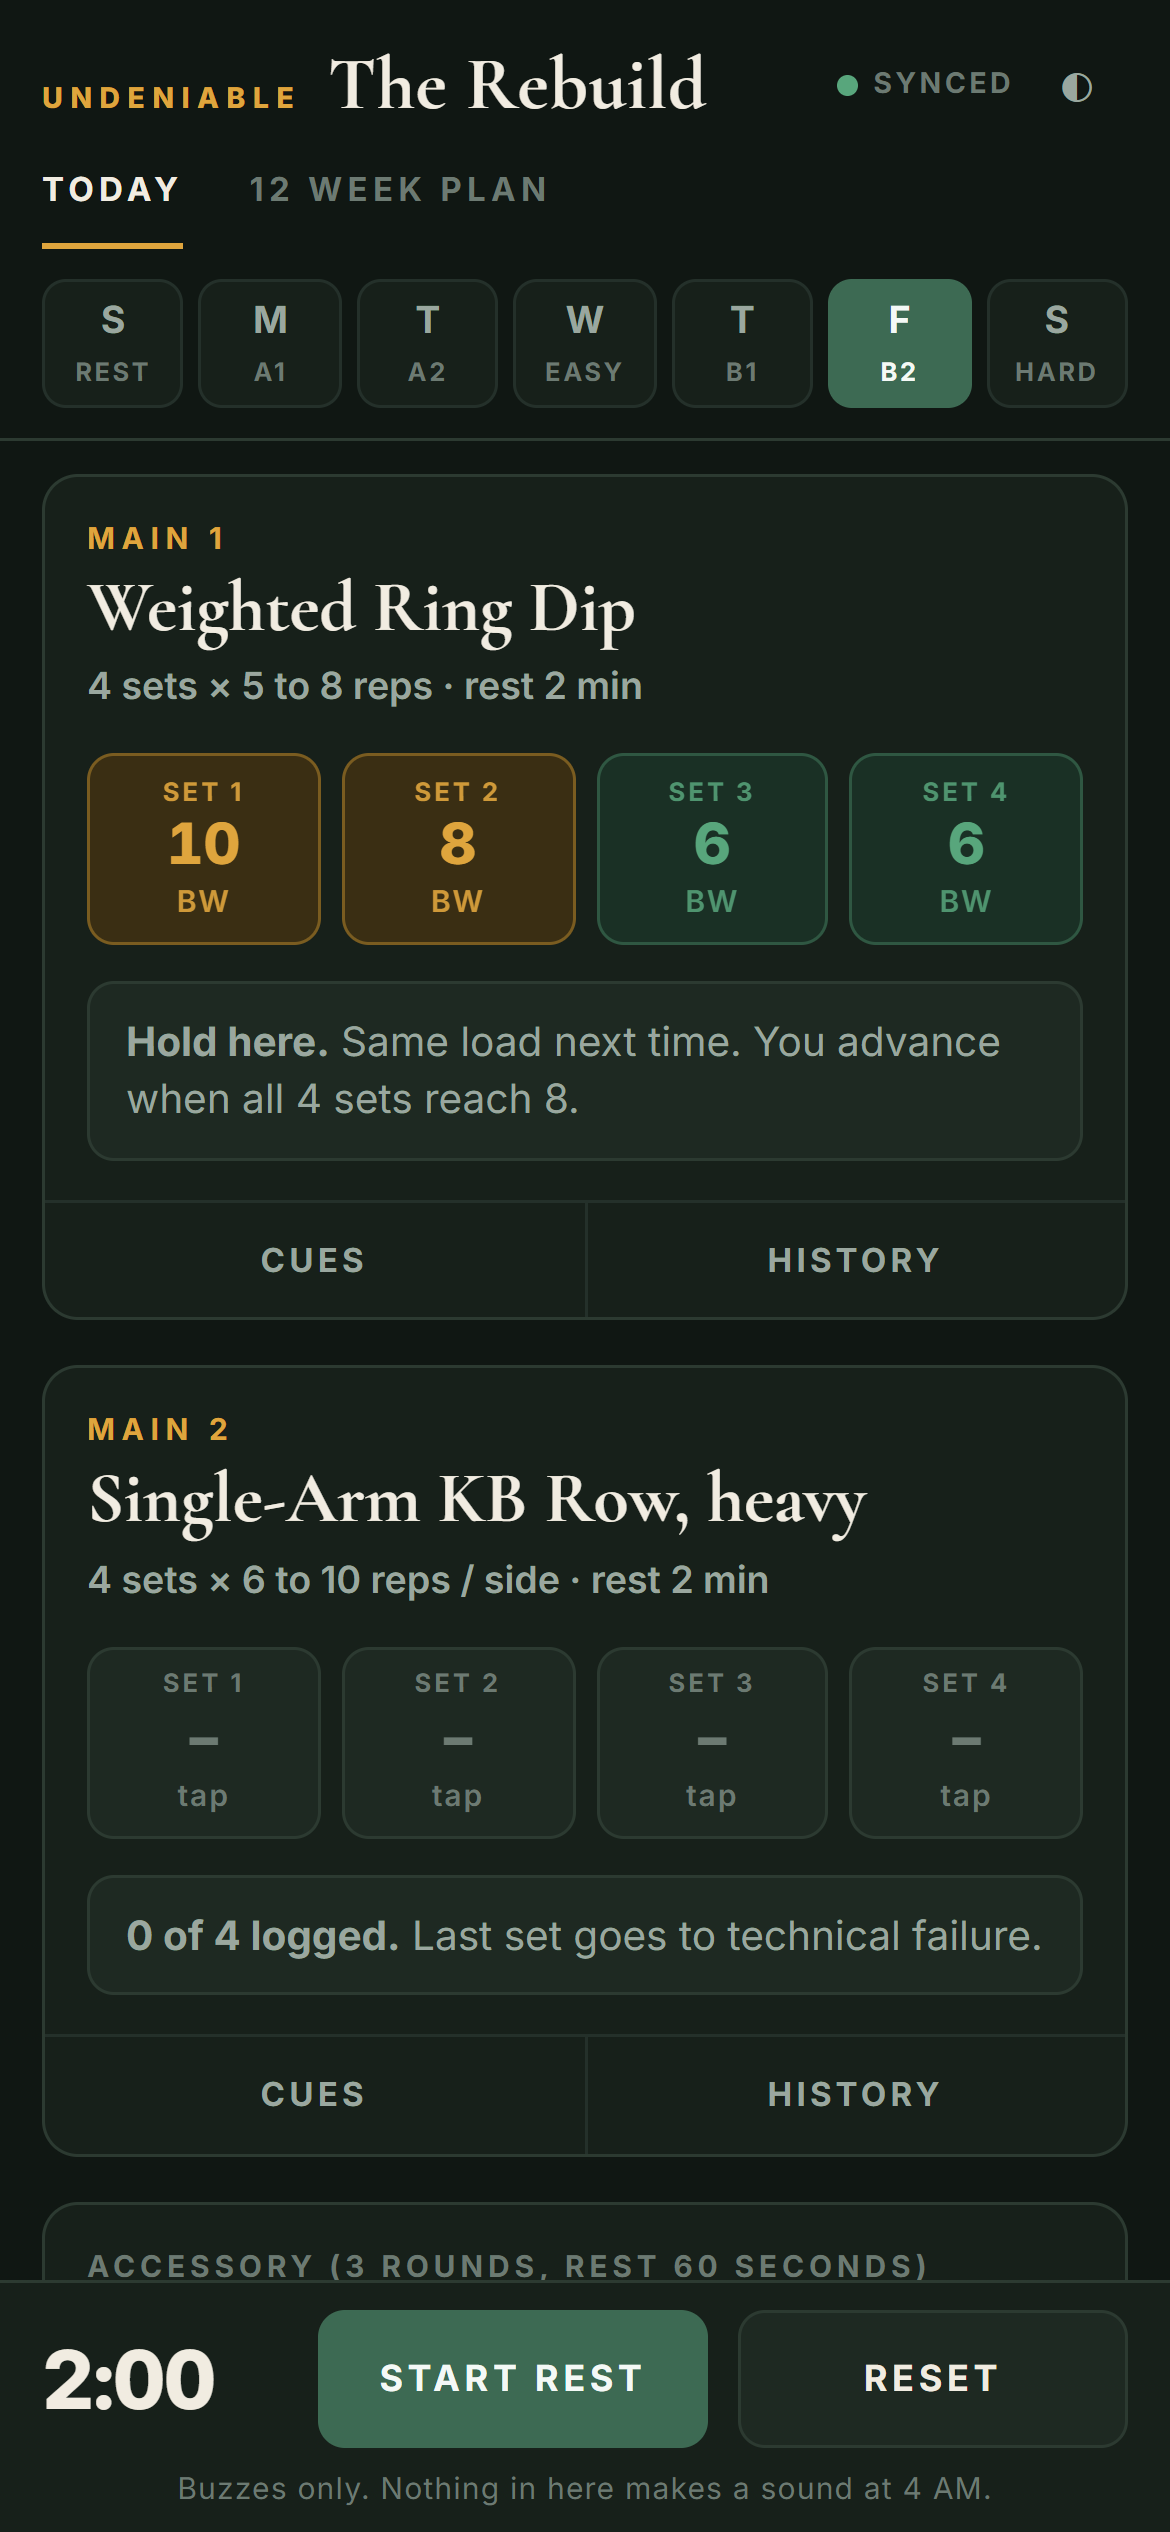
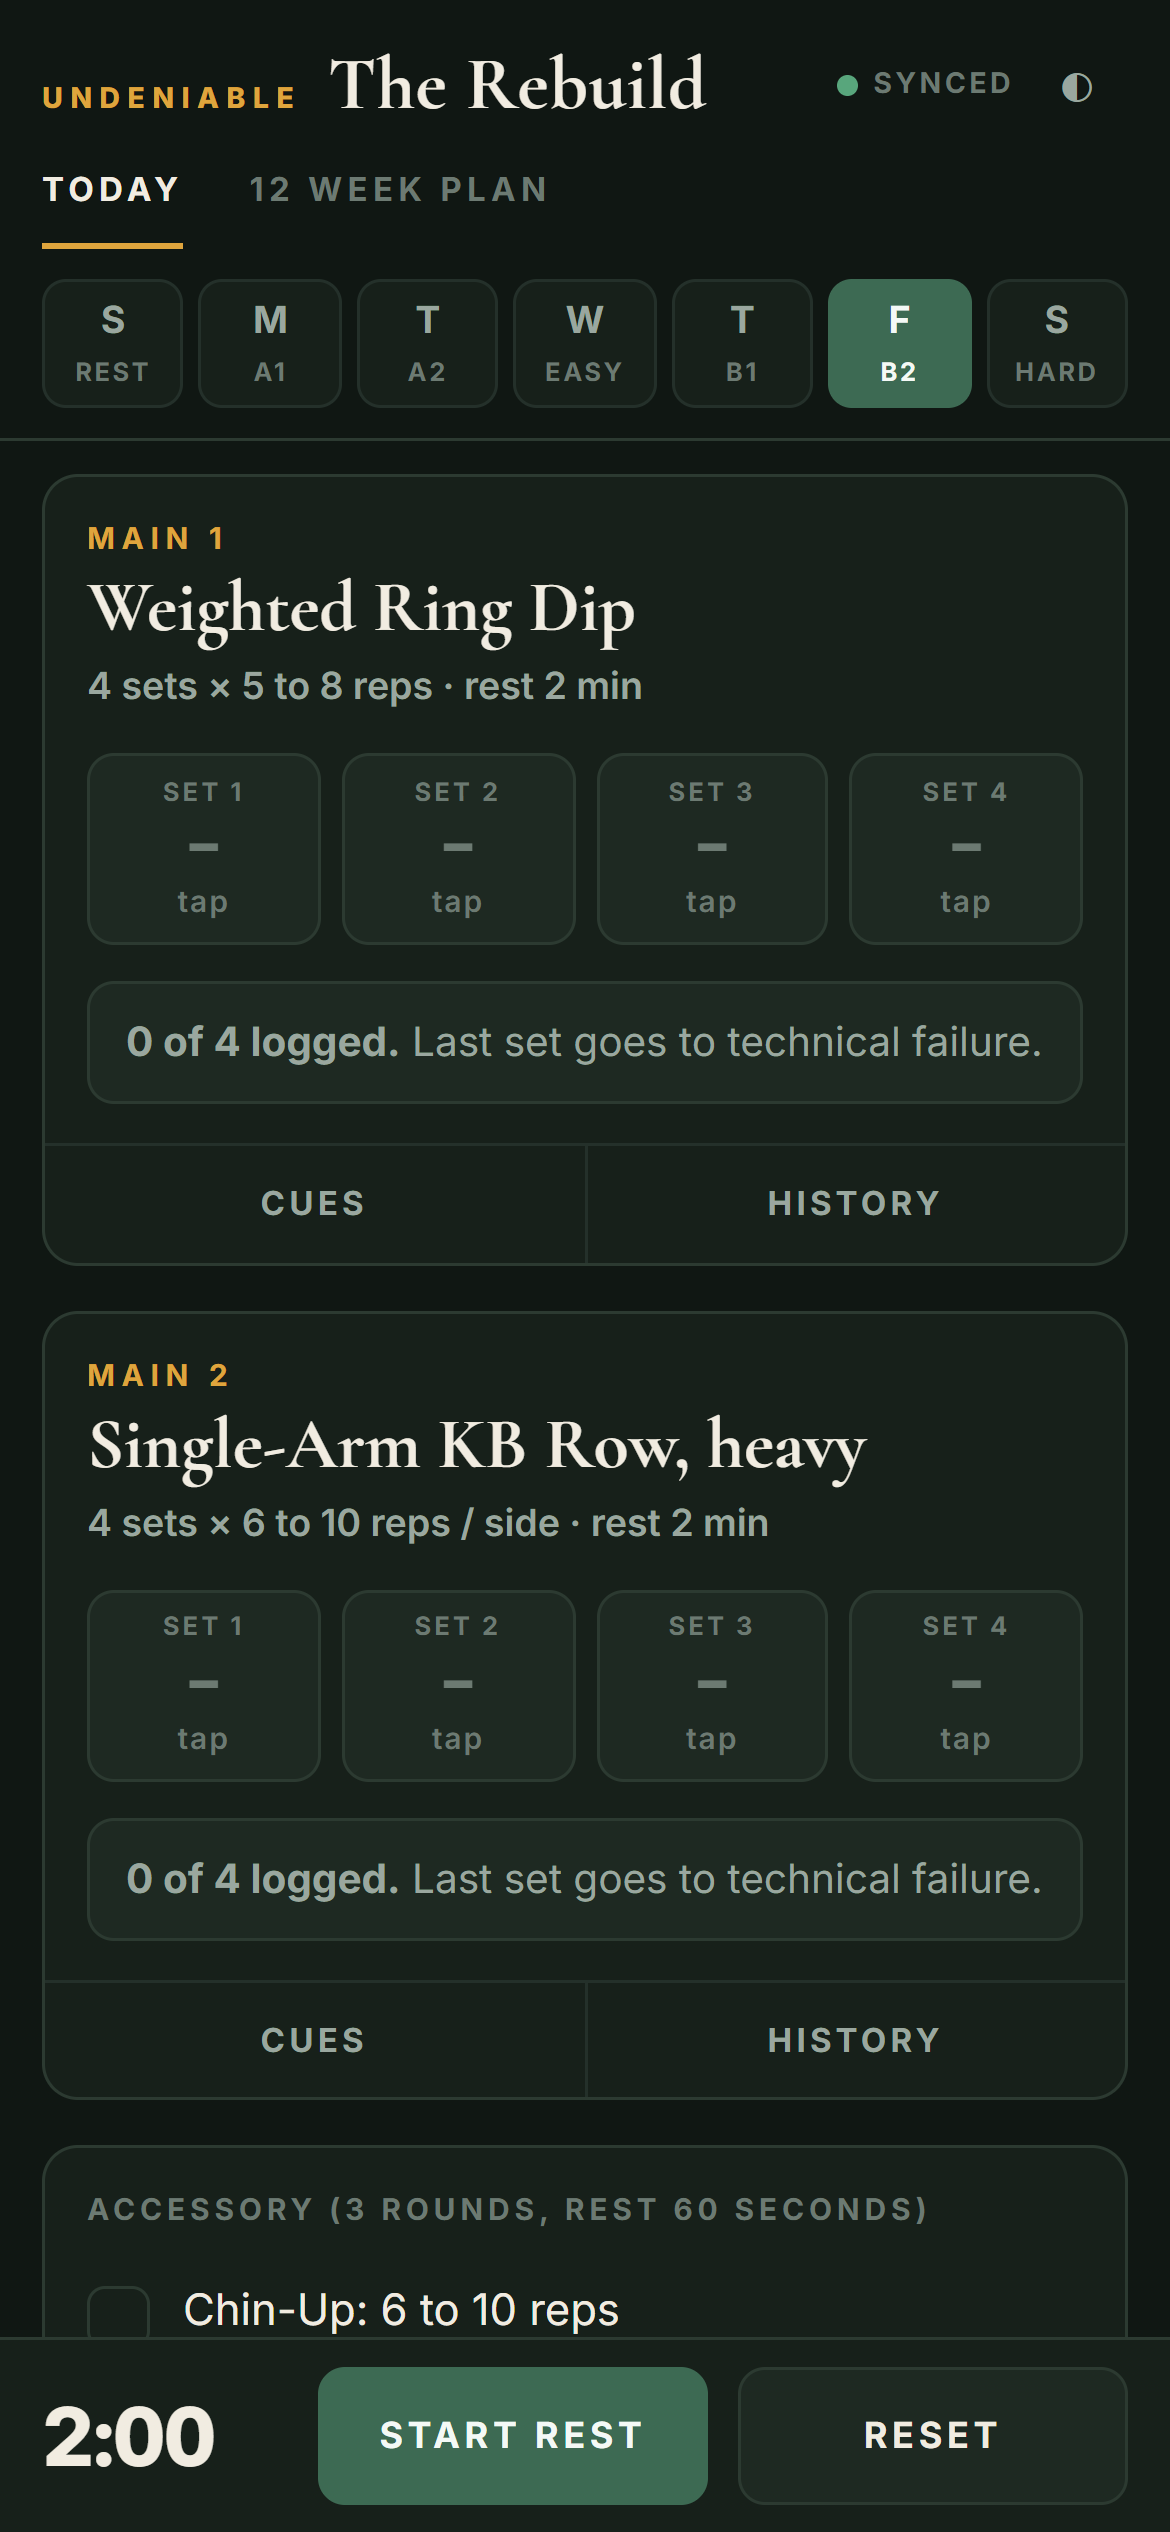
Cut the copy that assumed the reader trains where Nick does
The app bullets described one man in a garage at 4 AM rather than the
product. Replaced with what the app actually does for anyone using it.
Also removed the timer footnote from the app itself, since anyone who
opens it works that out in three seconds.

Still draft only.

diff --git a/src/pages/Coaching.tsx b/src/pages/Coaching.tsx
@@ -199,8 +199,8 @@ const Coaching = () => {
                 <ul className="flex flex-col gap-3 mt-7">
                   {[
                     "No App Store, no download, no account to create.",
-                    "Built for one hand in a dark garage at 4 AM.",
-                    "The rest timer buzzes. It never makes a sound.",
+                    "Log a set in two taps, between sets, without breaking your head out of it.",
+                    "A rest timer that buzzes instead of beeping, so it never makes a sound.",
                   ].map((item) => (
                     <li key={item} className="flex items-start gap-3 text-sm" style={{ color: "rgba(245,239,224,0.75)" }}>
                       <svg width="20" height="20" viewBox="0 0 24 24" fill="none" style={{ flexShrink: 0, marginTop: 2 }} aria-hidden="true">
